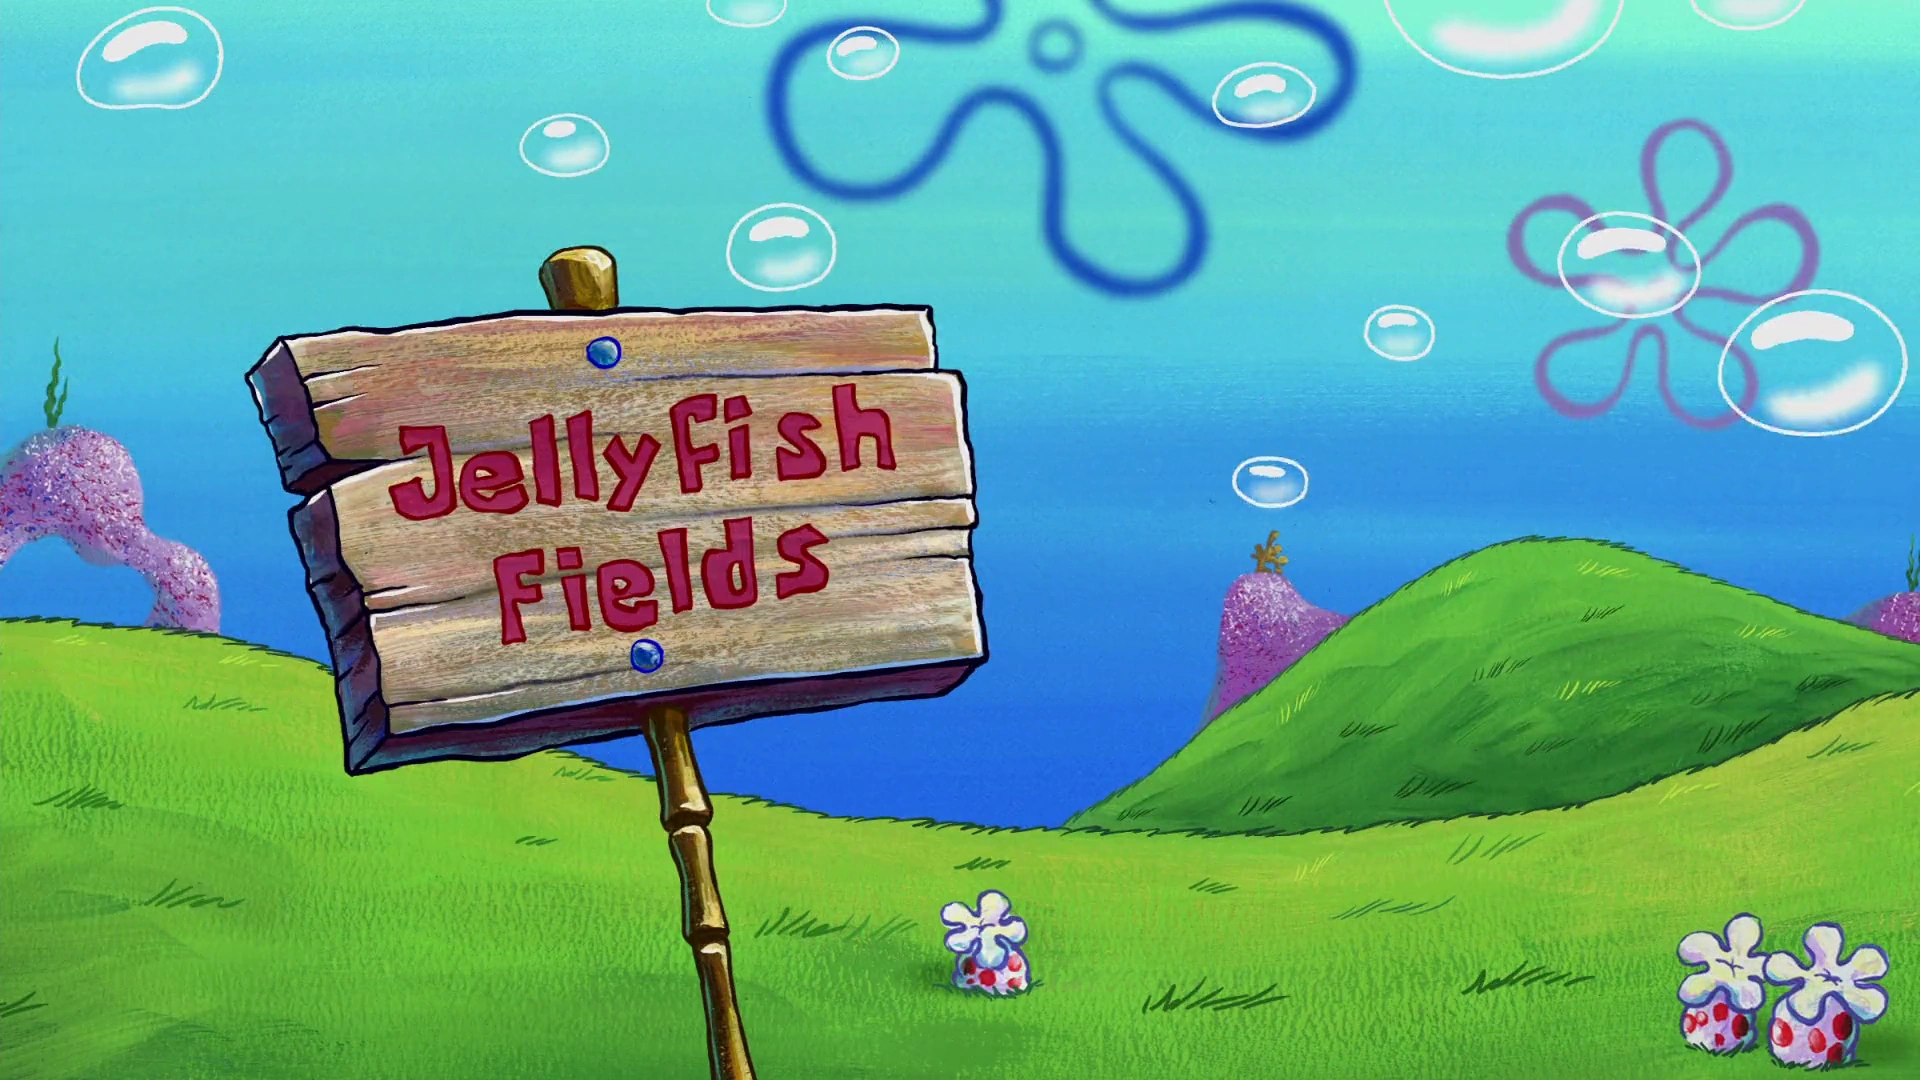
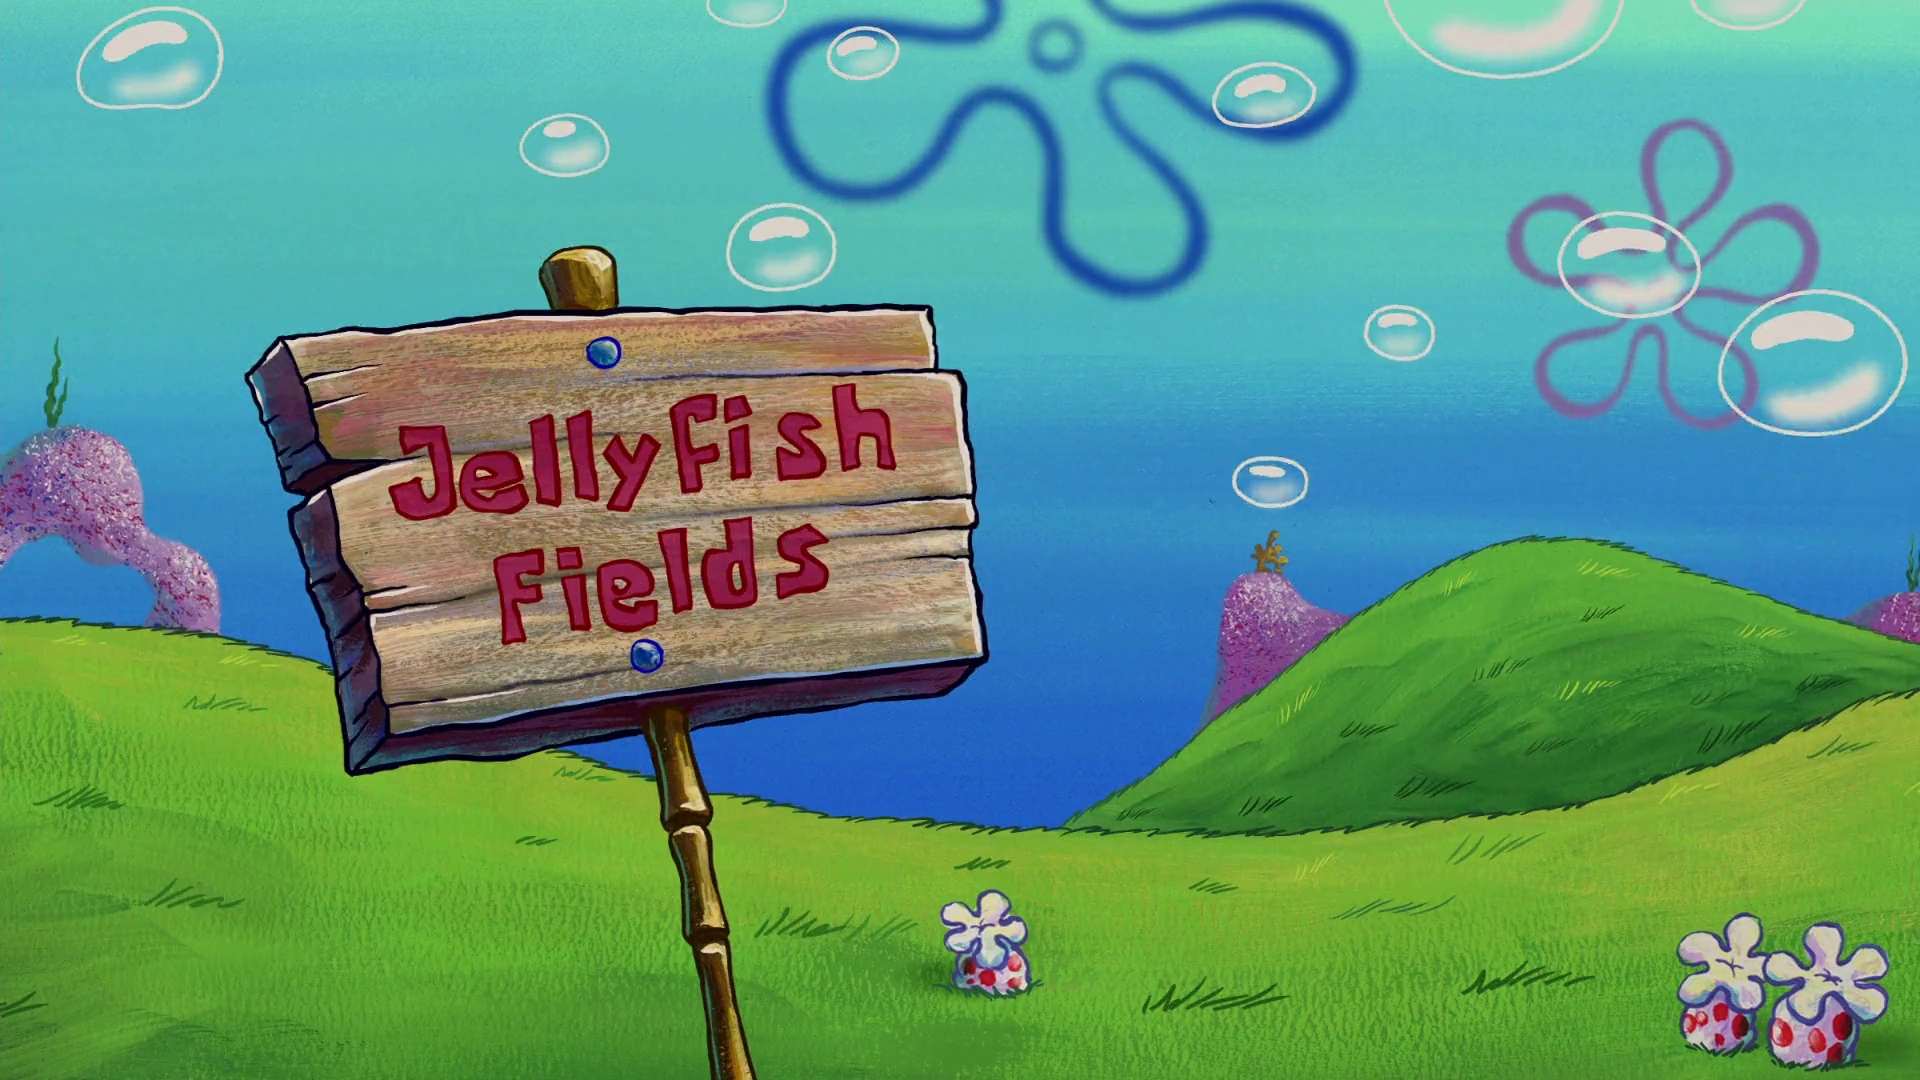
s

diff --git a/script.js b/script.js
@@ -6,10 +6,8 @@ function toggleBackground() {
 
     if (isOriginalBackground) {
         body.style.backgroundImage = 'url("img/background2.png")';
-        body.style.filter = "brightness(50%)";
     } else {
         body.style.backgroundImage = 'url("img/background.png")';
-        body.style.filter = "brightness(50%)";
     }
 
     isOriginalBackground = !isOriginalBackground;

diff --git a/style.css b/style.css
@@ -40,7 +40,6 @@ header .main-nav li a {
 
 body {
   background-image: url(img/background.png);
-  filter: brightness(95%);
   height: 1350px;
   background-repeat: no-repeat;
   background-size: cover;
